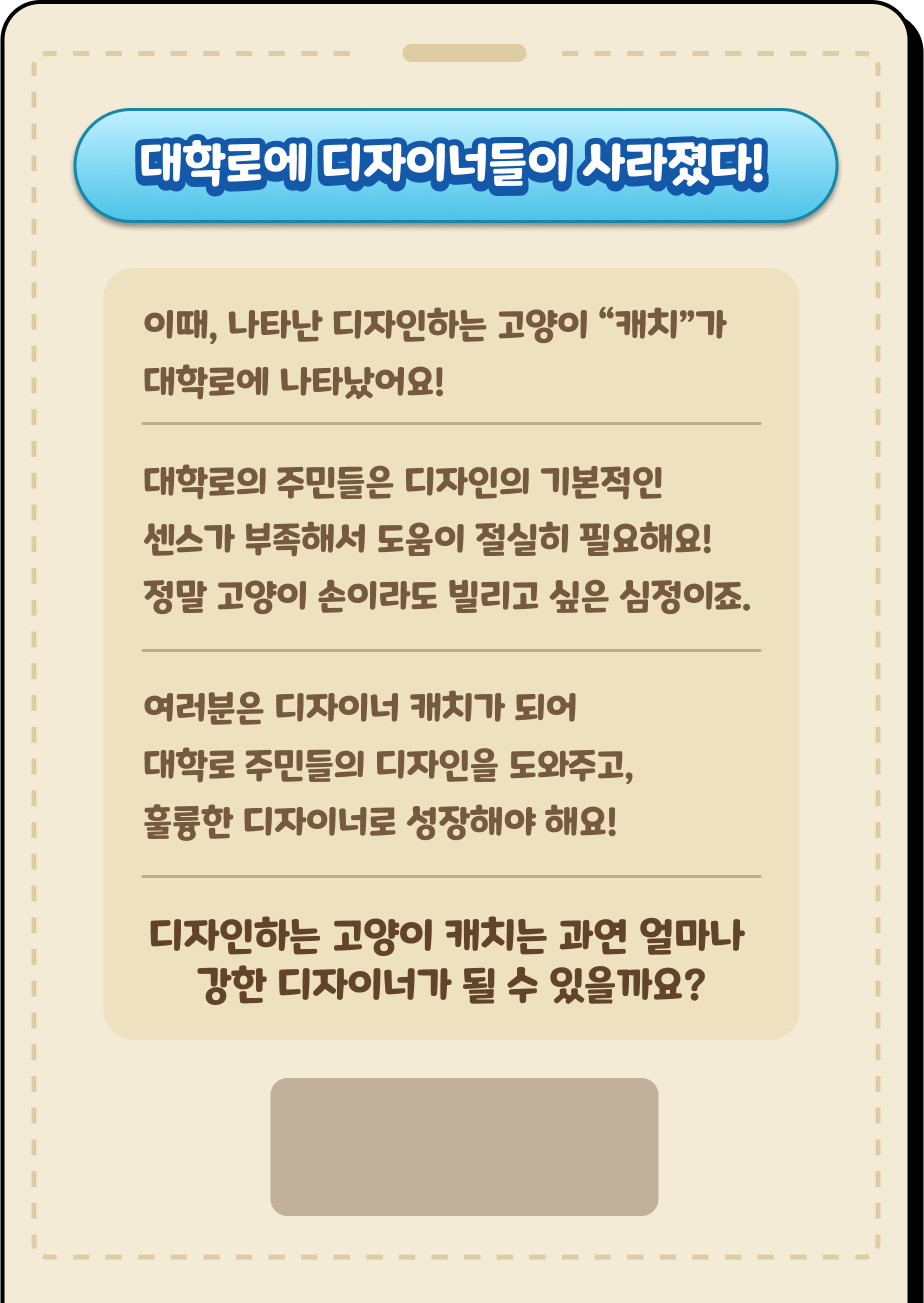
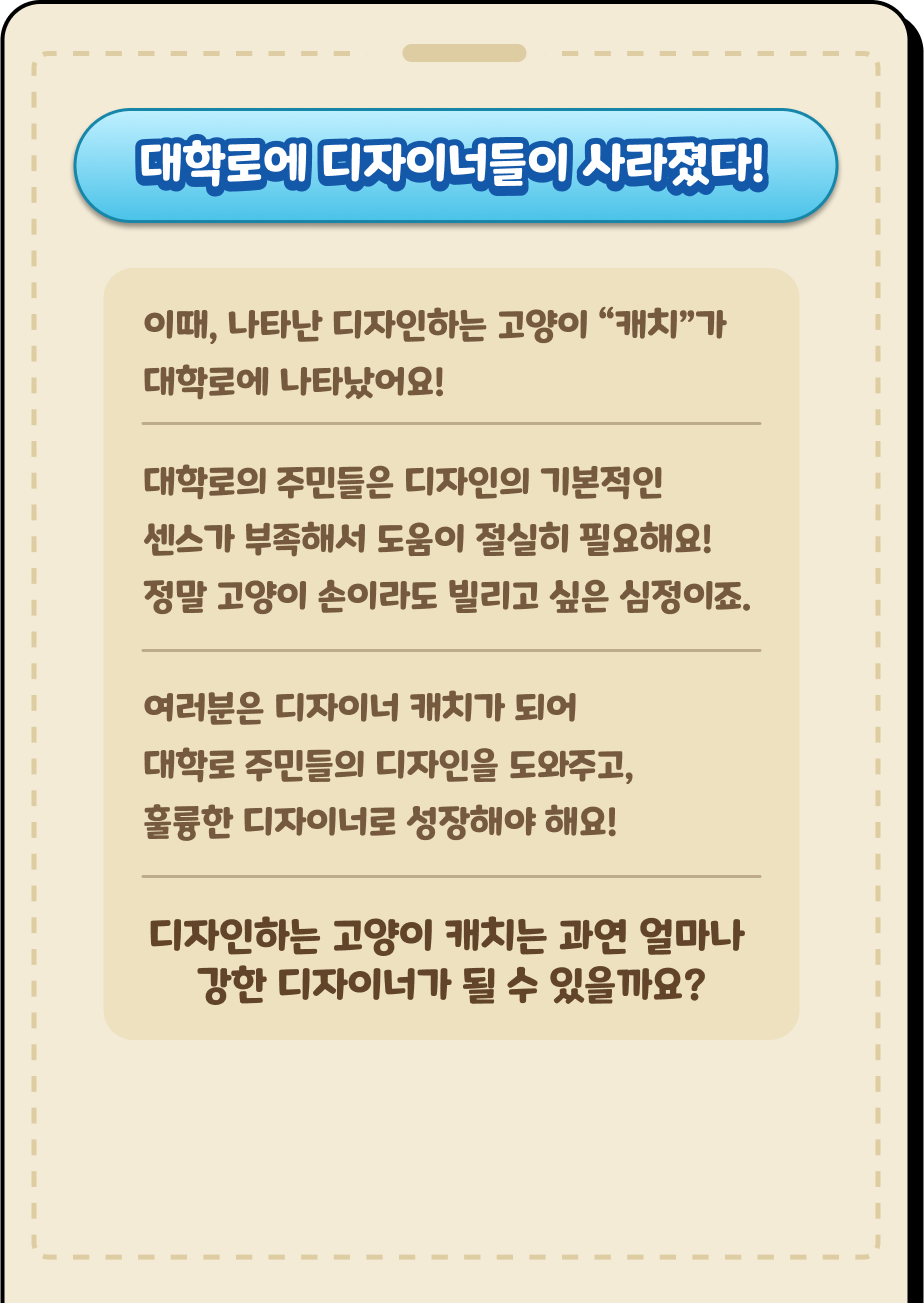
StarPage flash & click button Ani

Changed region(s): [[0.2727, 0.8289, 0.7273, 0.9517]]

diff --git a/src/pages/StartPage.module.css b/src/pages/StartPage.module.css
@@ -46,6 +46,15 @@
   height: 60px;
   background: url("../assets/box/box-drag-arrow.png") center center/contain
     no-repeat;
+  animation: 1s flash infinite alternate;
+}
+@keyframes flash {
+  0% {
+    opacity: 0;
+  }
+  100% {
+    opacity: 1;
+  }
 }
 
 .text {
@@ -71,8 +80,7 @@
 }
 
 .start-link:active {
-  margin-left: 50px;
-  margin-top: 50px;
+  height: 120px;
 }
 
 .start-button {

diff --git a/src/pages/StartPage.js b/src/pages/StartPage.js
@@ -1,7 +1,7 @@
+import { motion, useAnimation } from "framer-motion";
 // hooks
 import { useState } from "react";
 import { Link } from "react-router-dom";
-import { motion, useAnimation } from "framer-motion";
 
 // css
 import classes from "./StartPage.module.css";
